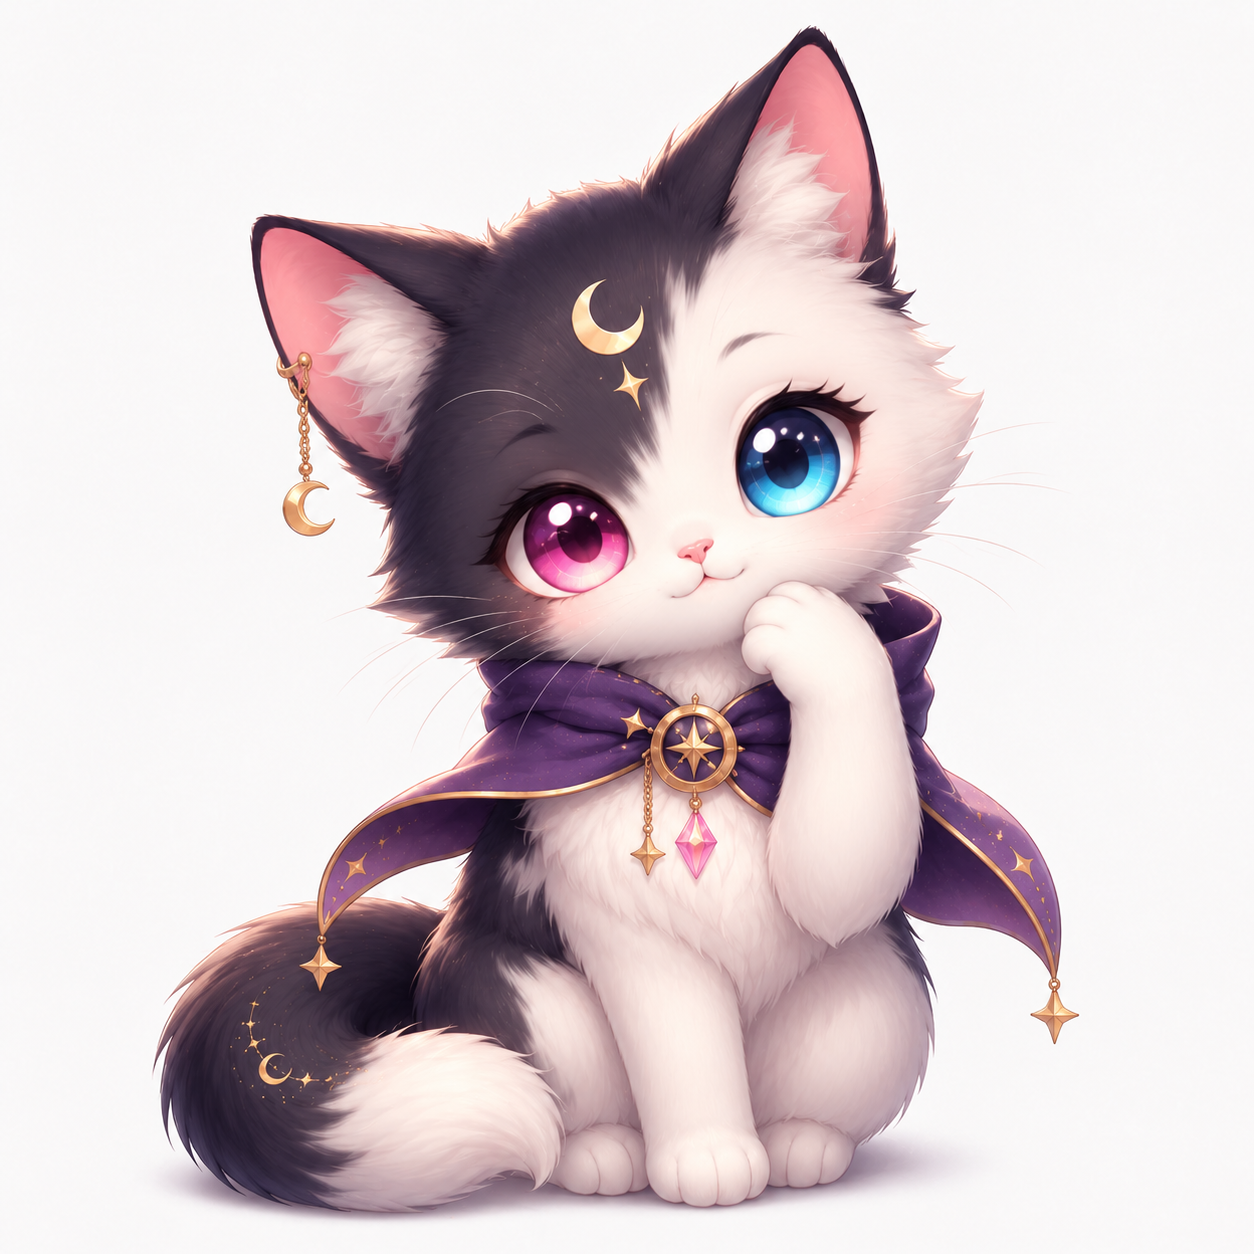
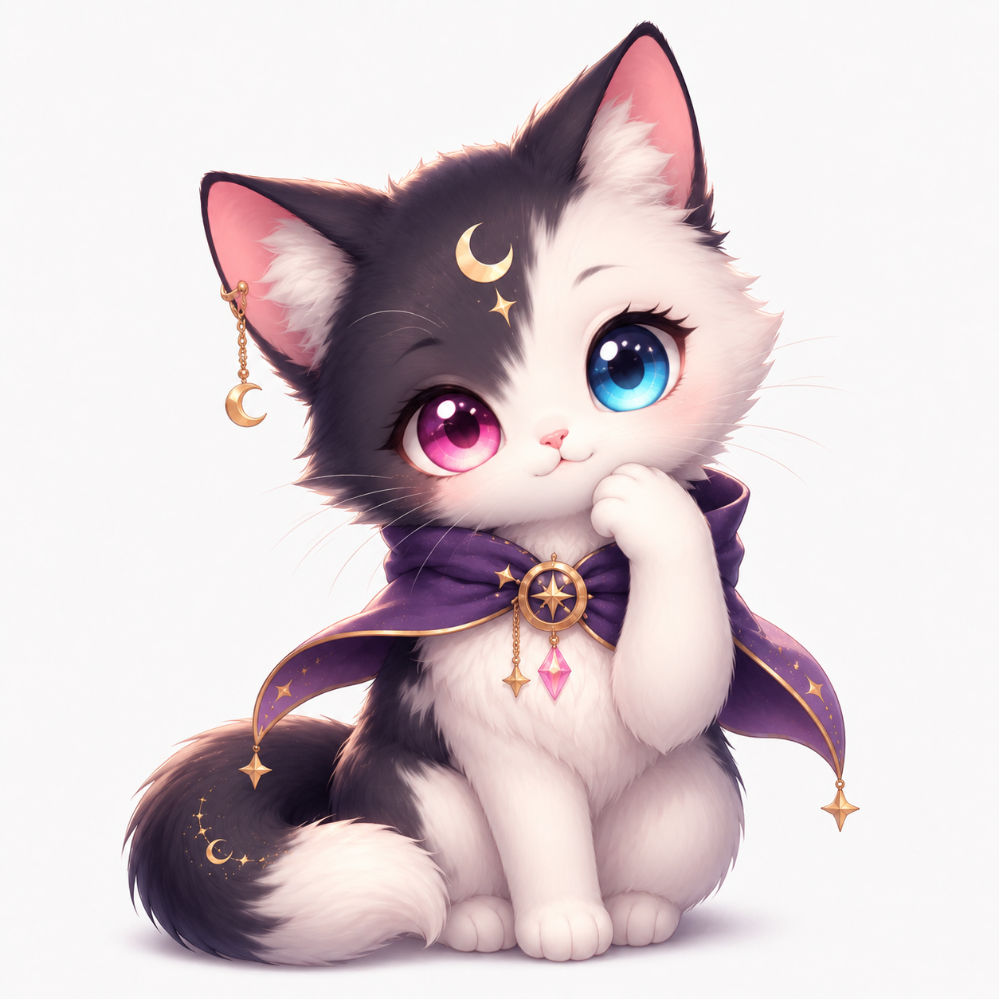
fix: 투명 배경 이미지로 교체 + blend mode 제거
- public/cat.png: RGBA 투명 배경 고양이 캐릭터로 교체
- public/logo.png: RGBA 투명 배경 오드아이 로고 텍스트로 교체
- Hero.tsx: mix-blend-mode darken 제거, drop-shadow 추가
- 이미지 크기 약간 확대 (lg:360px)

diff --git a/src/components/landing/Hero.tsx b/src/components/landing/Hero.tsx
@@ -9,21 +9,17 @@ export function Hero() {
       <div className="pointer-events-none absolute -top-10 -right-20 w-[400px] h-[400px] rounded-full bg-sky-200/40 blur-[100px]" />
       <div className="pointer-events-none absolute bottom-0 left-1/2 -translate-x-1/2 w-[600px] h-[300px] rounded-full bg-rose-200/30 blur-[100px]" />
 
-      <div className="container py-14 md:py-24 relative">
+      <div className="container py-14 md:py-24 relative z-10">
         <div className="flex flex-col md:flex-row items-center gap-8 md:gap-12 lg:gap-20">
 
           {/* 고양이 캐릭터 — 모바일 맨 위, 데스크톱 오른쪽 */}
           <div className="order-1 md:order-2 shrink-0 flex justify-center">
-            <div
-              className="relative w-[220px] h-[242px] sm:w-[250px] sm:h-[275px] md:w-[300px] md:h-[330px] lg:w-[340px] lg:h-[374px]"
-              style={{ mixBlendMode: "darken" }}
-            >
+            <div className="relative w-[220px] h-[242px] sm:w-[260px] sm:h-[286px] md:w-[310px] md:h-[341px] lg:w-[360px] lg:h-[396px]">
               <Image
                 src="/cat.png"
                 alt="오드아이 고양이"
                 fill
-                className="object-contain"
-                style={{ mixBlendMode: "darken" }}
+                className="object-contain drop-shadow-[0_8px_24px_rgba(139,92,246,0.25)]"
                 priority
               />
             </div>
@@ -33,16 +29,12 @@ export function Hero() {
           <div className="order-2 md:order-1 flex-1 text-center md:text-left">
 
             {/* 로고 이미지 타이틀 */}
-            <div
-              className="relative w-full max-w-[280px] sm:max-w-[340px] md:max-w-[400px] h-[90px] sm:h-[110px] md:h-[130px] mx-auto md:mx-0"
-              style={{ mixBlendMode: "darken" }}
-            >
+            <div className="relative w-full max-w-[300px] sm:max-w-[360px] md:max-w-[420px] h-[90px] sm:h-[108px] md:h-[126px] mx-auto md:mx-0">
               <Image
                 src="/logo.png"
                 alt="오드아이 사주"
                 fill
                 className="object-contain object-center md:object-left"
-                style={{ mixBlendMode: "darken" }}
                 priority
               />
             </div>
